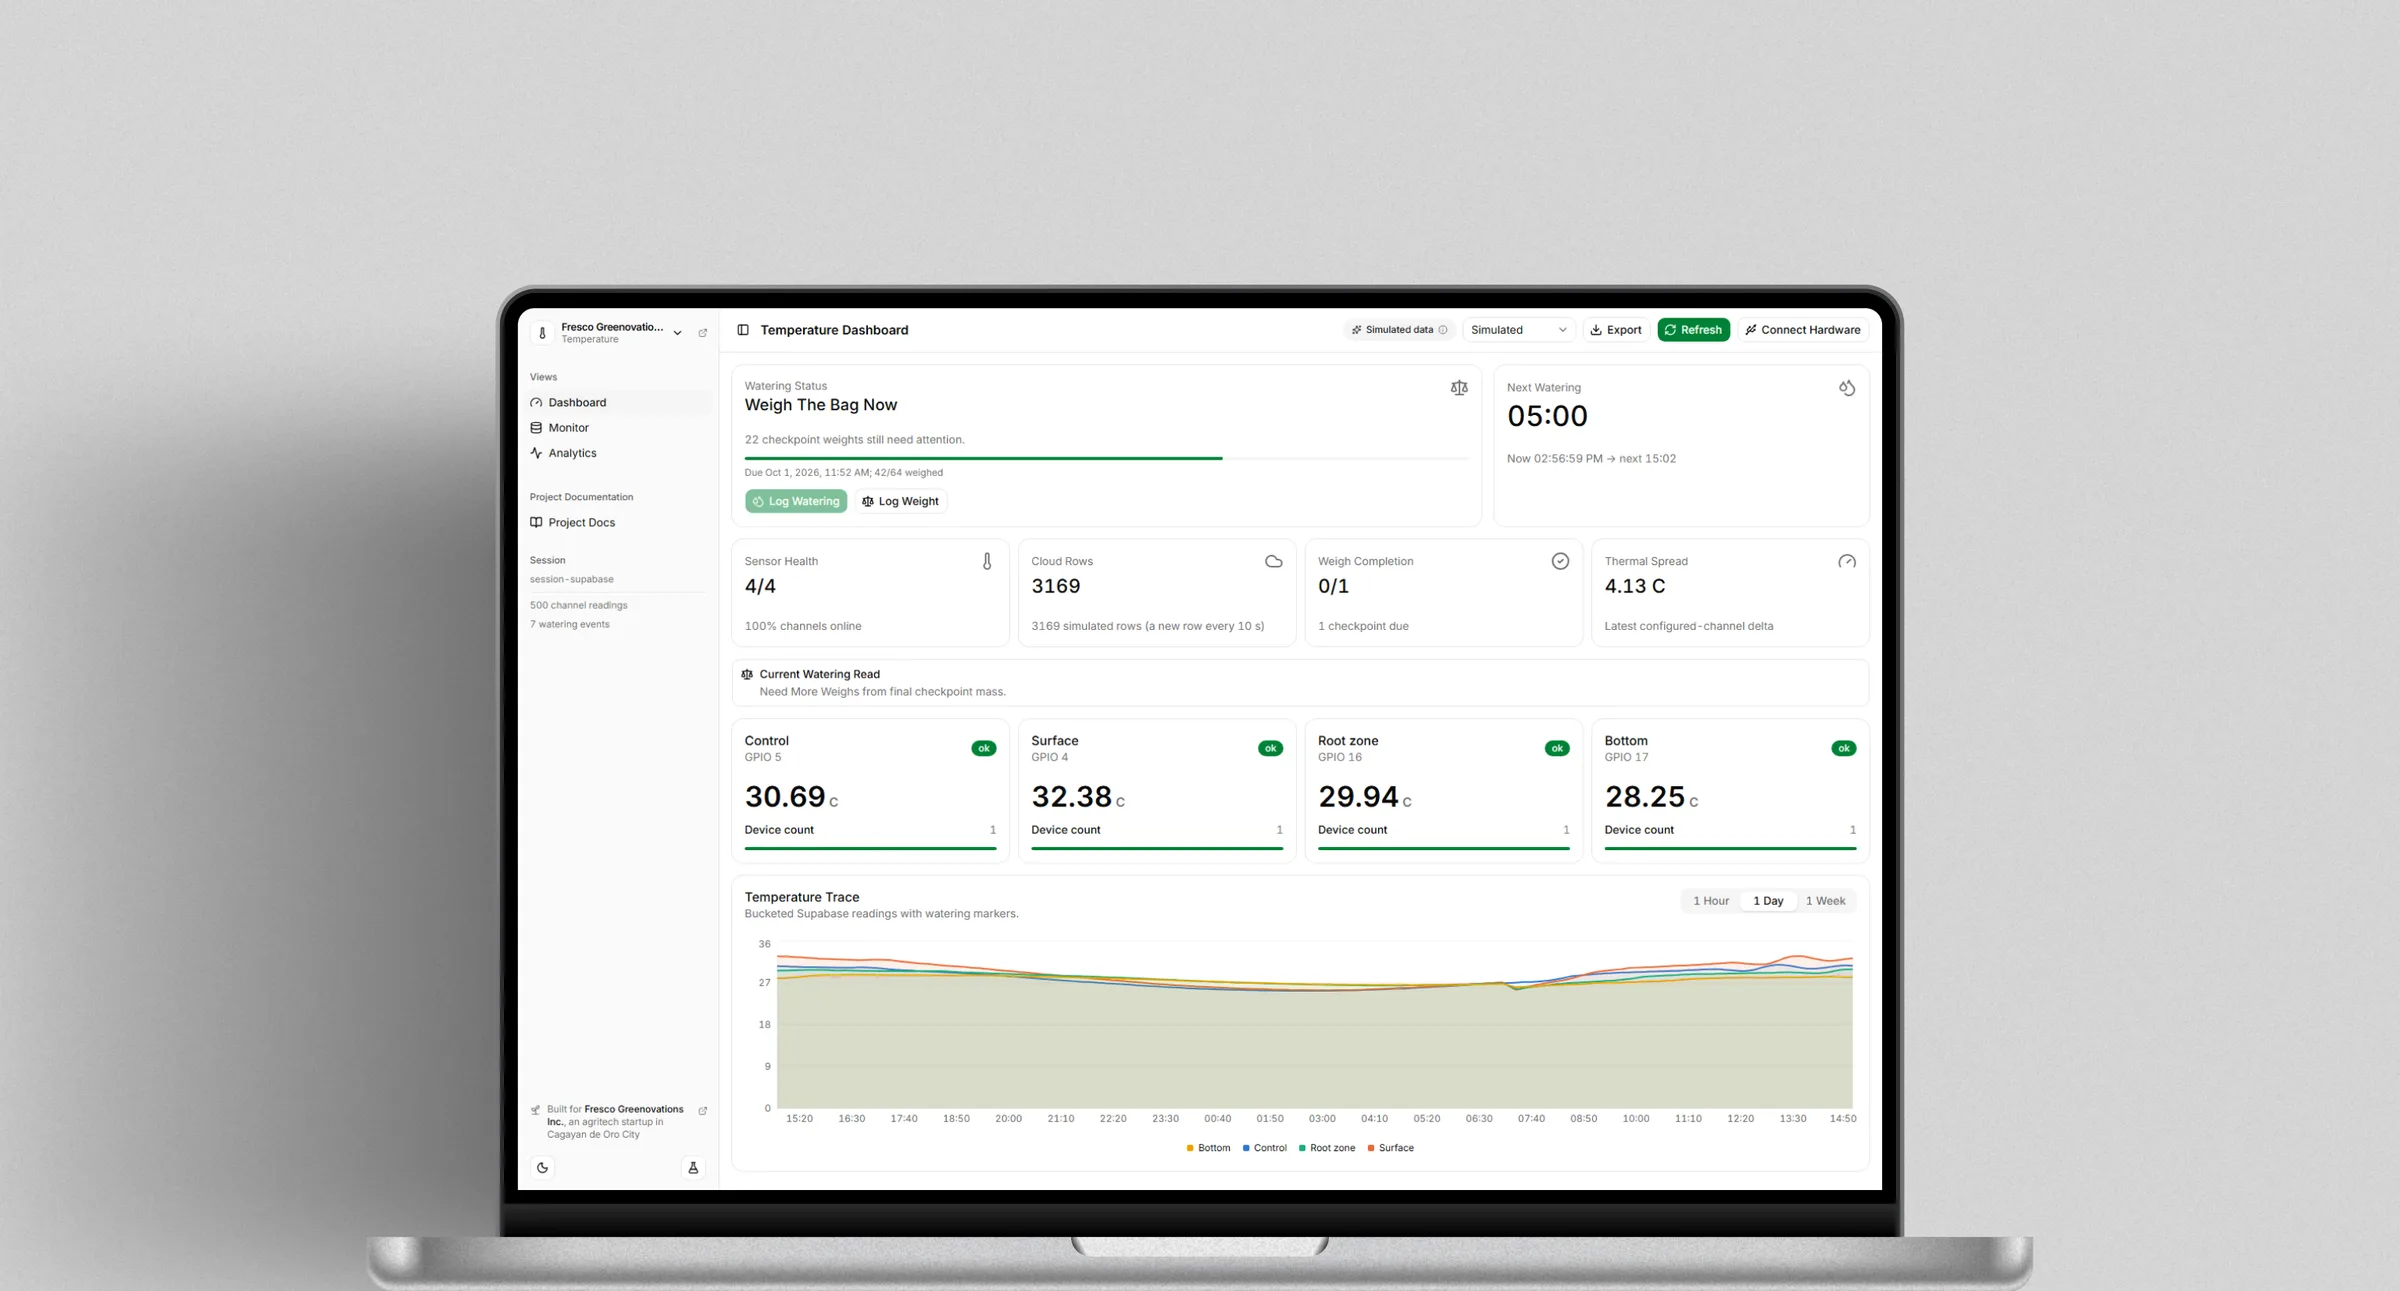
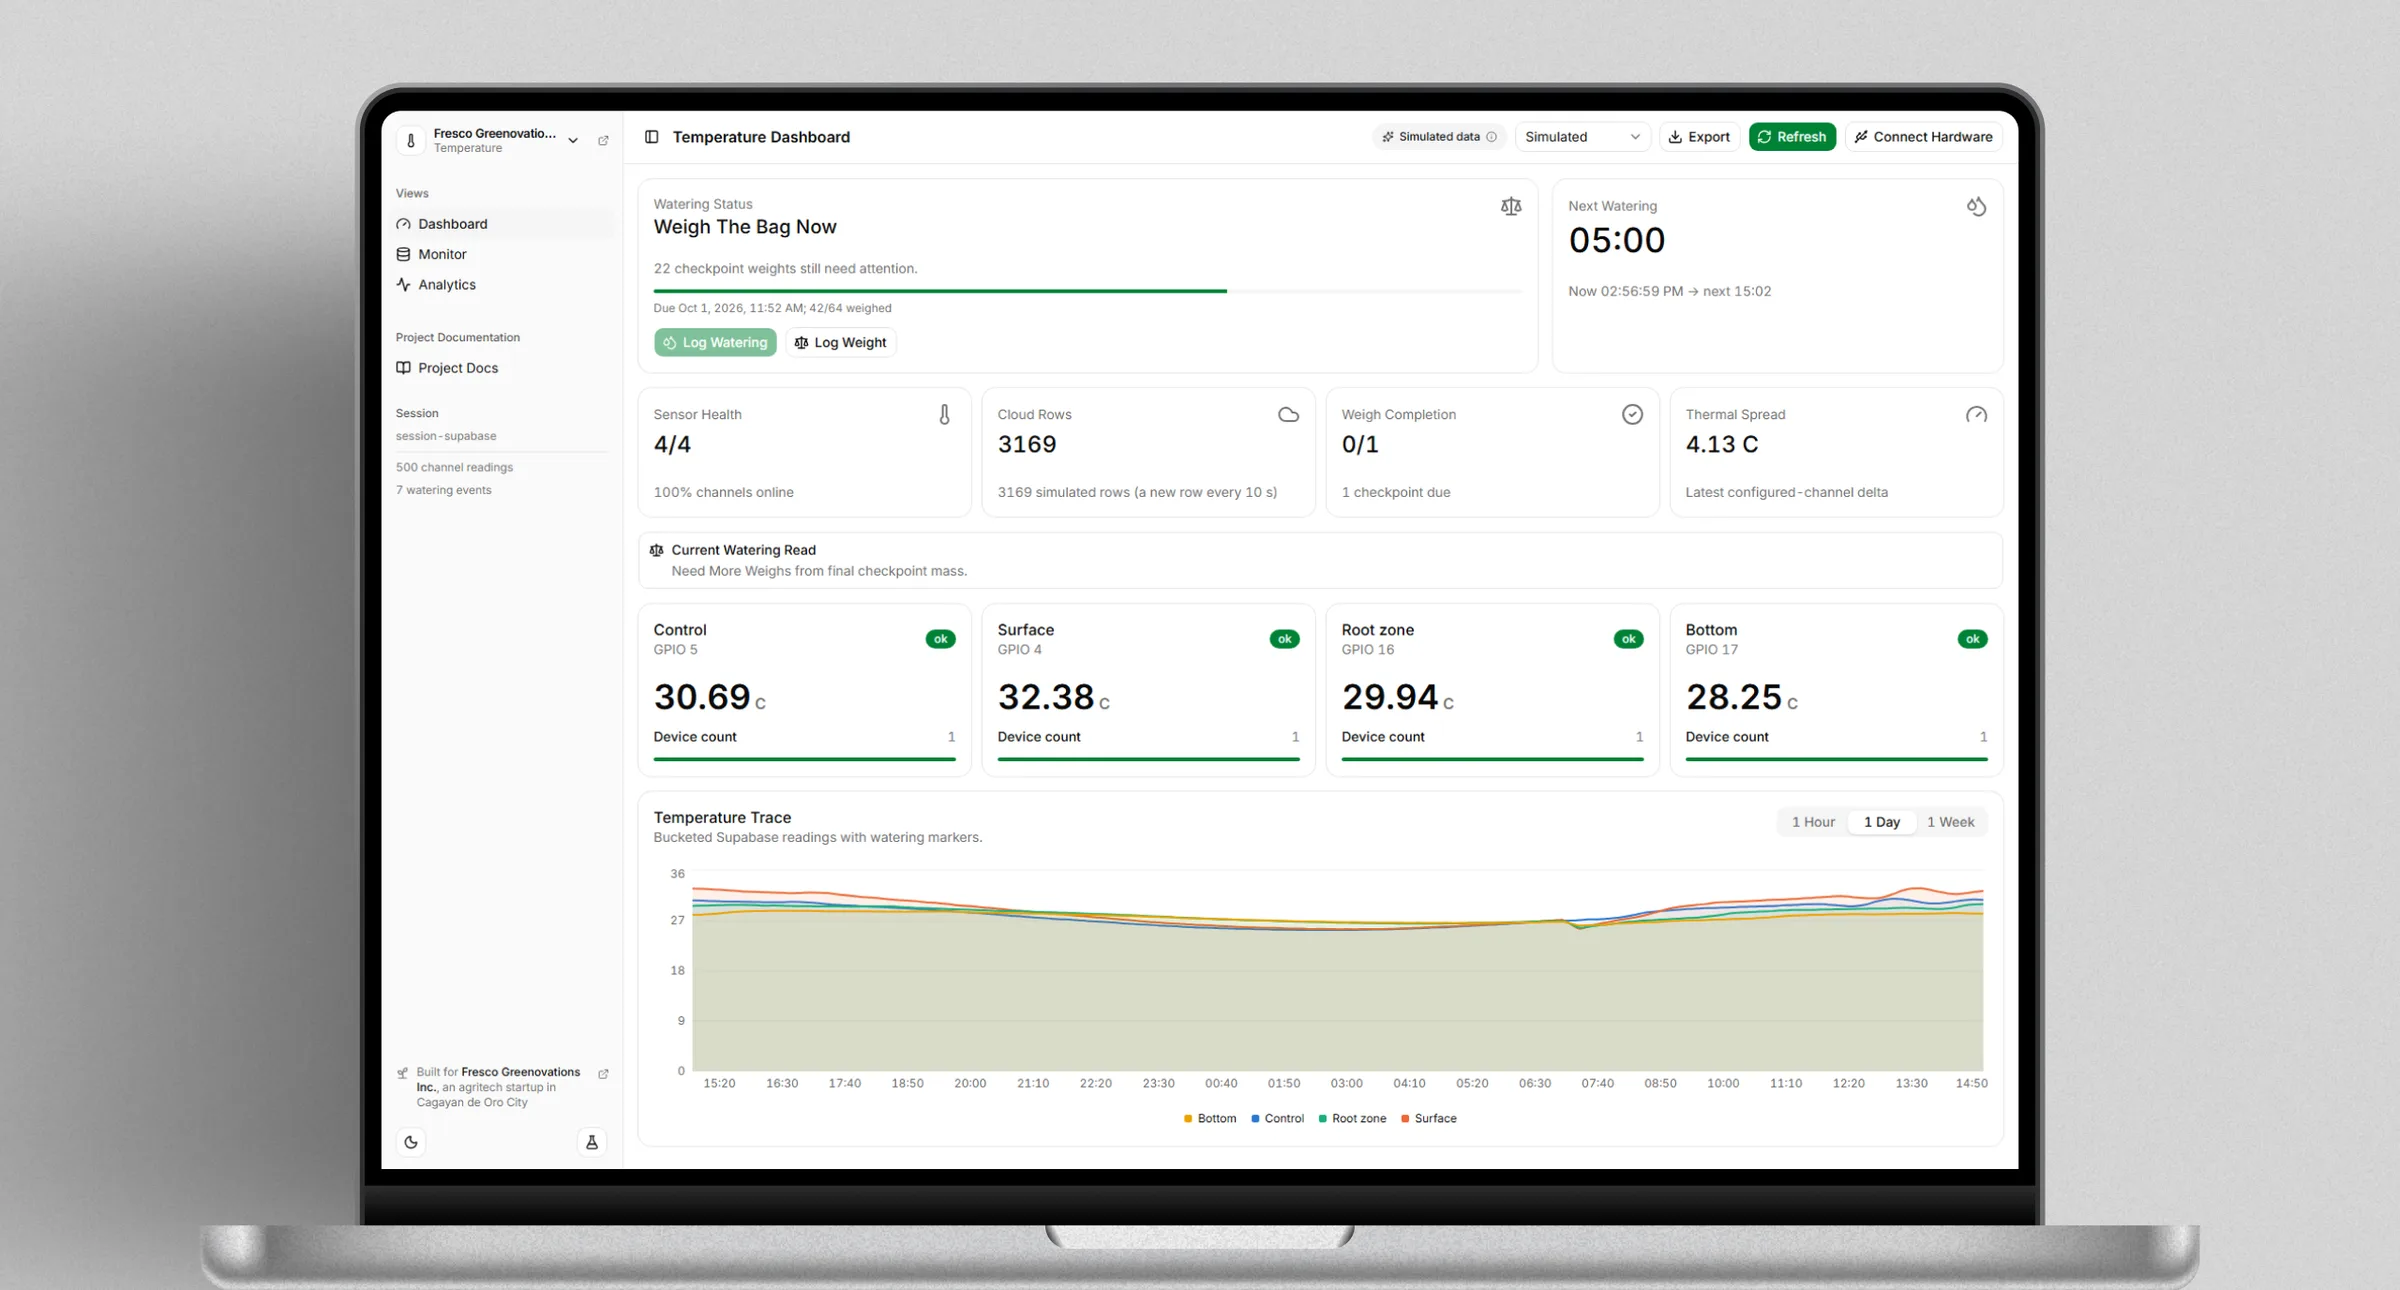
fix: zoom laptop covers

diff --git a/lib/image-manifest.ts b/lib/image-manifest.ts
@@ -672,15 +672,15 @@ export const imageManifest: Record<string, ImageMeta> = {
   },
   "portfolio/projects/fresco-grow-lab/fresco-grow-lab-cover-dark.webp": {
     width: 2400,
-    height: 1291,
+    height: 1290,
     blurDataURL:
[2 lines of base64/hex data omitted]
   },
   "portfolio/projects/fresco-grow-lab/fresco-grow-lab-cover-light.webp": {
     width: 2400,
-    height: 1291,
+    height: 1290,
     blurDataURL:
[2 lines of base64/hex data omitted]
   },
   "portfolio/projects/fresco-grow-lab/fresco-monitor.png": {
     width: 2160,
@@ -732,15 +732,15 @@ export const imageManifest: Record<string, ImageMeta> = {
   },
   "portfolio/projects/steady/steady-cover-dark.webp": {
     width: 2400,
-    height: 1291,
+    height: 1290,
     blurDataURL:
[2 lines of base64/hex data omitted]
   },
   "portfolio/projects/steady/steady-cover-light.webp": {
     width: 2400,
-    height: 1291,
+    height: 1290,
     blurDataURL:
[2 lines of base64/hex data omitted]
   },
   "portfolio/projects/steady/steady-home.png": {
     width: 2160,
@@ -780,15 +780,15 @@ export const imageManifest: Record<string, ImageMeta> = {
   },
   "portfolio/projects/trailventure/trailventure-cover-dark.webp": {
     width: 2400,
-    height: 1291,
+    height: 1290,
     blurDataURL:
[2 lines of base64/hex data omitted]
   },
   "portfolio/projects/trailventure/trailventure-cover-light.webp": {
     width: 2400,
-    height: 1291,
+    height: 1290,
     blurDataURL:
[2 lines of base64/hex data omitted]
   },
   "portfolio/projects/trailventure/trailventure-home.png": {
     width: 2160,
